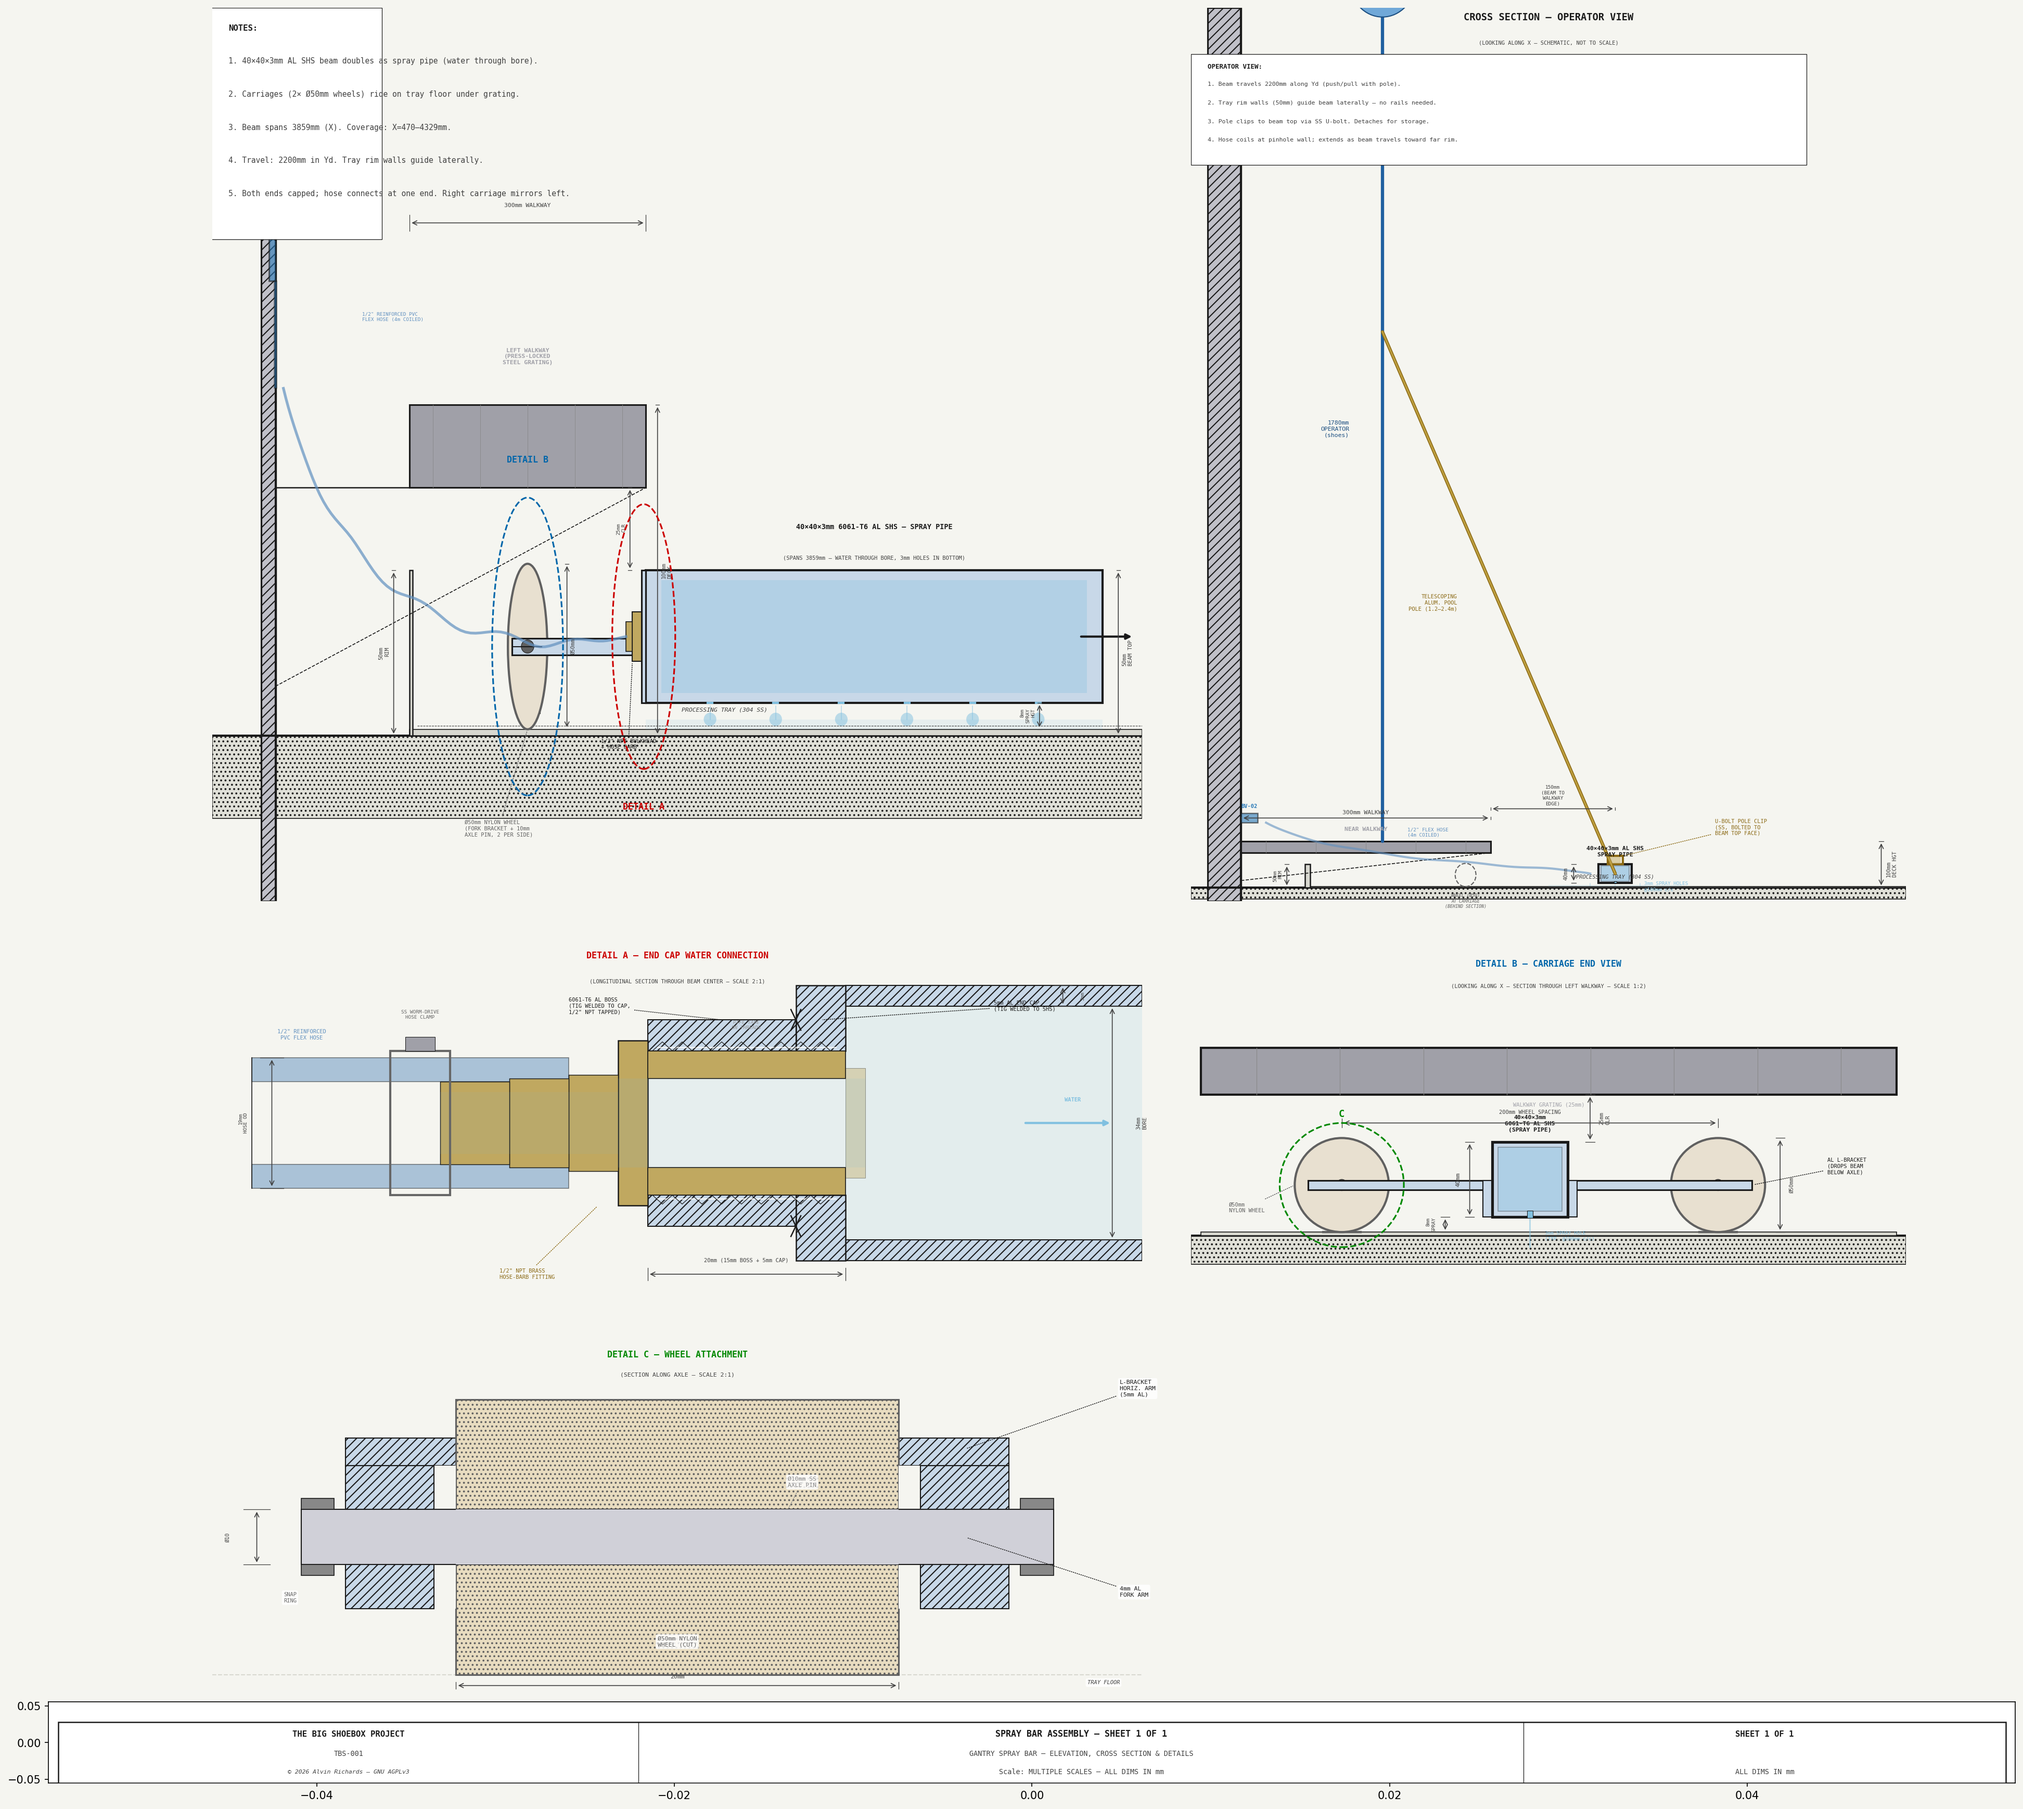
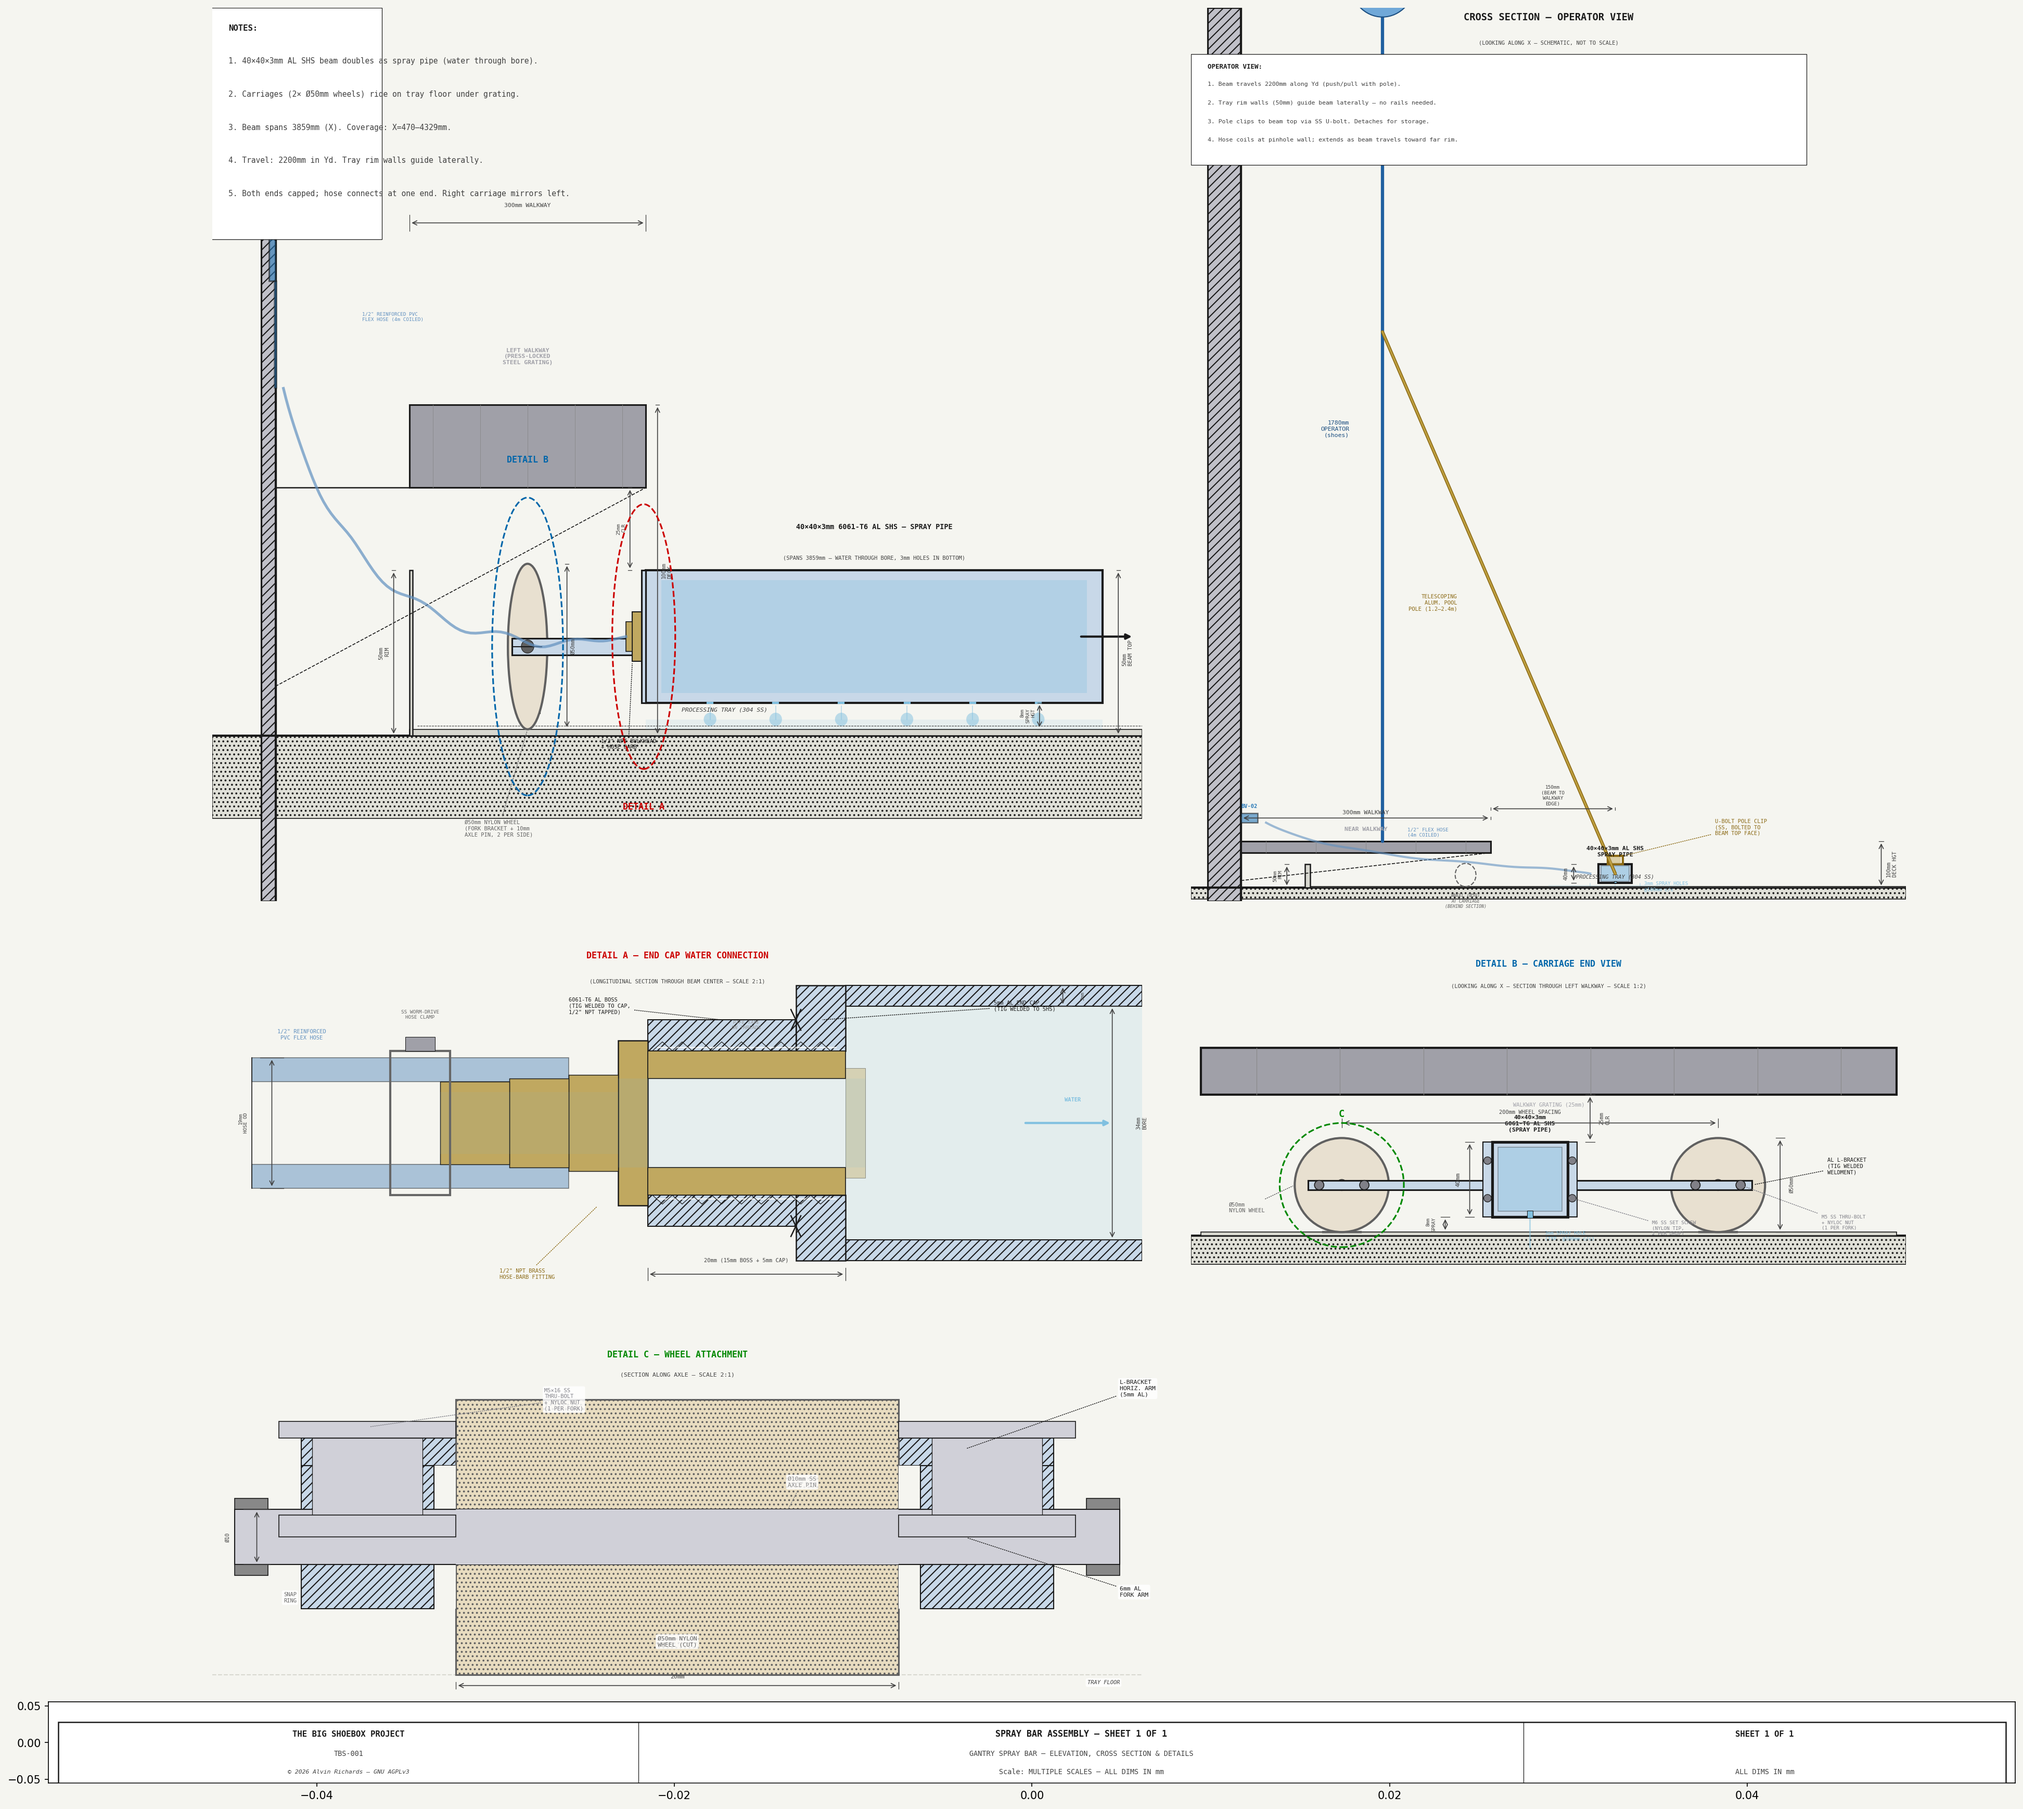
Show bolted carriage construction in Detail B and C
Design decision: L-bracket is a TIG welded weldment (arm + drop cheeks).
Fork brackets bolt to arm; beam is clamped by set screws in drops.

Detail B:
- Extend drop cheeks to full beam height (40mm vs 19.5mm)
- Add M5 bolt circles at fork-arm junctions
- Add M6 set screw circles on drop cheeks
- Label: TIG WELDED WELDMENT, bolt specs

Detail C:
- Widen forks from 4mm to 6mm (needed for M5 clearance holes)
- Extend arm, axle, reposition snap rings accordingly
- Add M5 through-bolt profile at both fork-arm junctions
  (head, shank, nyloc nut — matches Detail A hose fitting style)

Shopping list:
- Break out carriage fasteners: 8x M5x16 thru-bolts, 8x M6 set screws
- Update L-bracket description to specify TIG welded weldment
- Add axle pins and snap rings to misc hardware line

Changed region(s): [[0.0934, 0.7765, 0.2178, 0.9008], [0.4357, 0.7765, 0.5602, 0.9008]]

diff --git a/generate_spray_bar_diagram.py b/generate_spray_bar_diagram.py
@@ -212,9 +212,9 @@ brk_x_r = PROC_OPEN_X_L + 5
 ax.add_patch(Rectangle((sx(brk_x_l), sz(WHEEL_AXLE_Z - brk_t / 2)),
                          (brk_x_r - brk_x_l) / H_SC, brk_t / V_SC,
                          fc=C_ALUM_FILL, ec=C_FRAME, lw=1.5, zorder=7))
-# Vertical drop (at walkway inner edge)
+# Vertical drop (at walkway inner edge — full beam height)
 ax.add_patch(Rectangle((sx(brk_x_r - brk_t), sz(BEAM_Z_BOT)),
-                         brk_t / H_SC, (WHEEL_AXLE_Z - BEAM_Z_BOT + brk_t / 2) / V_SC,
+                         brk_t / H_SC, (BEAM_Z_TOP - BEAM_Z_BOT) / V_SC,
                          fc=C_ALUM_FILL, ec=C_FRAME, lw=1.5, zorder=7))
 
 leader(ax, sx(carriage_cx), sz(WHEEL_AXLE_Z - WHEEL_DIA / 2),
@@ -947,18 +947,47 @@ ax_c.add_patch(Rectangle((cy(plate_yd_l), cz(WHEEL_AXLE_Z - brk_t_c / 2)),
                            (plate_yd_r - plate_yd_l) / SC_C, brk_t_c / SC_C,
                            fc=C_ALUM_FILL, ec=C_FRAME, lw=1.5, zorder=7))
 
-# Vertical drops flanking beam
-for side_yd in [carriage_yd_center - BEAM_W / 2 - brk_t_c,
-                carriage_yd_center + BEAM_W / 2]:
+# Vertical drop cheeks flanking beam (full beam height)
+drop_yd_l = carriage_yd_center - BEAM_W / 2 - brk_t_c
+drop_yd_r = carriage_yd_center + BEAM_W / 2
+for side_yd in [drop_yd_l, drop_yd_r]:
     ax_c.add_patch(Rectangle((cy(side_yd), cz(BEAM_Z_BOT)),
                                brk_t_c / SC_C,
-                               (WHEEL_AXLE_Z - BEAM_Z_BOT + brk_t_c / 2) / SC_C,
+                               (BEAM_Z_TOP - BEAM_Z_BOT) / SC_C,
                                fc=C_ALUM_FILL, ec=C_FRAME, lw=1.0, zorder=7))
 
 leader(ax_c, cy(plate_yd_r), cz(WHEEL_AXLE_Z),
        cy(plate_yd_r + 40), cz(WHEEL_AXLE_Z + 10),
-       "AL L-BRACKET\n(DROPS BEAM\nBELOW AXLE)",
+       "AL L-BRACKET\n(TIG WELDED\nWELDMENT)",
        fs=5, color=C_FRAME, font=FONT, zorder=15)
+
+# ── Bolt indicators ─────────────────────────────────────────────────────
+C_BOLT = "#808088"
+bolt_r = 2.5 / SC_C
+
+# Fork-to-arm M5 through-bolts (1 per fork, visible as bolt-head circles)
+for w_yd in [wheel1_yd, wheel2_yd]:
+    for offset in [-WHEEL_WIDTH / 2 - 2, WHEEL_WIDTH / 2 + 2]:
+        fork_yd = w_yd + offset
+        ax_c.add_patch(Circle((cy(fork_yd), cz(WHEEL_AXLE_Z)),
+                                bolt_r, fc=C_BOLT, ec=C_FRAME, lw=0.8, zorder=11))
+
+# Beam-to-drop M6 set screws (2 per drop, visible as socket-head circles)
+for drp in [drop_yd_l + brk_t_c / 2, drop_yd_r + brk_t_c / 2]:
+    for ss_z in [BEAM_Z_BOT + 10, BEAM_Z_TOP - 10]:
+        ax_c.add_patch(Circle((cy(drp), cz(ss_z)),
+                                bolt_r * 0.8, fc=C_BOLT, ec=C_FRAME,
+                                lw=0.6, zorder=11))
+
+leader(ax_c, cy(wheel2_yd + WHEEL_WIDTH / 2 + 2), cz(WHEEL_AXLE_Z),
+       cy(wheel2_yd + 55), cz(WHEEL_AXLE_Z - 20),
+       "M5 SS THRU-BOLT\n+ NYLOC NUT\n(1 PER FORK)",
+       fs=4.5, color=C_BOLT, font=FONT, zorder=15)
+
+leader(ax_c, cy(drop_yd_r + brk_t_c / 2), cz(BEAM_Z_BOT + 10),
+       cy(carriage_yd_center + BEAM_W / 2 + 45), cz(BEAM_Z_BOT - 6),
+       "M6 SS SET SCREW\n(NYLON TIP,\n2 PER DROP)",
+       fs=4.5, color=C_BOLT, font=FONT, zorder=15)
 
 # ── Beam / spray pipe SHS cross-section ──────────────────────────────────
 c_beam_l = carriage_yd_center - BEAM_W / 2
@@ -1051,15 +1080,15 @@ ax_w.text(0, w_yt - 5,
 C_NYLON_FILL = "#E8DCC0"
 
 # ── L-bracket horizontal arm (cut — hatched) ─────────────────────────────
-ax_w.add_patch(Rectangle((-15, 13), 30, 5,
+ax_w.add_patch(Rectangle((-17, 13), 34, 5,
                fc=C_ALUM_FILL, ec=C_FRAME, lw=1.0, hatch="///", zorder=3))
 
-# ── Left fork arm (cut — hatched) ────────────────────────────────────────
-ax_w.add_patch(Rectangle((-15, -13), 4, 26,
+# ── Left fork arm (cut — hatched, 6mm thick for M5 bolts) ───────────────
+ax_w.add_patch(Rectangle((-17, -13), 6, 26,
                fc=C_ALUM_FILL, ec=C_FRAME, lw=1.0, hatch="///", zorder=4))
 
-# ── Right fork arm (cut — hatched) ───────────────────────────────────────
-ax_w.add_patch(Rectangle((11, -13), 4, 26,
+# ── Right fork arm (cut — hatched, 6mm thick) ───────────────────────────
+ax_w.add_patch(Rectangle((11, -13), 6, 26,
                fc=C_ALUM_FILL, ec=C_FRAME, lw=1.0, hatch="///", zorder=4))
 
 # ── Nylon wheel body (cut — dot hatch) ───────────────────────────────────
@@ -1072,7 +1101,7 @@ for gap_x in [-11, 10]:
                    fc=C_BG, ec="none", zorder=3.5))
 
 # ── Axle pin (not cut — solid fill, passes through) ─────────────────────
-ax_w.add_patch(Rectangle((-17, -5), 34, 10,
+ax_w.add_patch(Rectangle((-20, -5), 40, 10,
                fc="#D0D0D8", ec=C_FRAME, lw=1.0, zorder=5))
 
 # Clear bore through wheel (axle sits in this)
@@ -1080,11 +1109,24 @@ ax_w.add_patch(Rectangle((-10, -5), 20, 10,
                fc="#D0D0D8", ec="none", zorder=5))
 
 # ── Snap rings at axle ends (retain axle in fork) ────────────────────────
-for sr_x in [-17, 15.5]:
+for sr_x in [-20, 18.5]:
     ax_w.add_patch(Rectangle((sr_x, -7), 1.5, 2,
                    fc="#888888", ec=C_FRAME, lw=0.8, zorder=6))
     ax_w.add_patch(Rectangle((sr_x, 5), 1.5, 2,
                    fc="#888888", ec=C_FRAME, lw=0.8, zorder=6))
+
+# ── M5 through-bolts: fork-to-arm (profile view) ────────────────────────
+C_BOLT_FILL = "#D0D0D8"
+for bolt_cx in [-14, 14]:
+    # Bolt head (on top of arm)
+    ax_w.add_patch(Rectangle((bolt_cx - 4, 18), 8, 3,
+                   fc=C_BOLT_FILL, ec=C_FRAME, lw=0.8, zorder=7))
+    # Shank through arm and into fork
+    ax_w.add_patch(Rectangle((bolt_cx - 2.5, 4), 5, 14,
+                   fc=C_BOLT_FILL, ec=C_FRAME, lw=0.6, zorder=7))
+    # Nyloc nut below fork
+    ax_w.add_patch(Rectangle((bolt_cx - 4, 0), 8, 4,
+                   fc=C_BOLT_FILL, ec=C_FRAME, lw=0.8, zorder=7))
 
 _bbox_w = dict(boxstyle="round,pad=0.3", fc="white", ec="none", alpha=0.85)
 
@@ -1102,7 +1144,7 @@ leader(ax_w, 13, 16, w_xr - 1, w_yt - 8,
        fs=5.5, color=C_FRAME, font=FONT, zorder=20, bbox=_bbox_w)
 
 leader(ax_w, 13, 0, w_xr - 1, -10,
-       "4mm AL\nFORK ARM",
+       "6mm AL\nFORK ARM",
        fs=5.5, color=C_FRAME, font=FONT, zorder=20, bbox=_bbox_w)
 
 ax_w.text(0, -18, "Ø50mm NYLON\nWHEEL (CUT)",
@@ -1116,6 +1158,10 @@ leader(ax_w, 5, 5, 5, 10,
 ax_w.text(-17.5, -10, "SNAP\nRING",
           ha="center", va="top", fontsize=5, color="#666666",
           bbox=_bbox_w, **FONT, zorder=20)
+
+leader(ax_w, -14, 20, -6, w_yt - 10,
+       "M5×16 SS\nTHRU-BOLT\n+ NYLOC NUT\n(1 PER FORK)",
+       fs=5, color="#808088", font=FONT, zorder=20, bbox=_bbox_w)
 
 # ── Dimensions ────────────────────────────────────────────────────────────
 draw_dim_h(ax_w, -10, 10, w_yb + 3,

diff --git a/master-shopping-list.md b/master-shopping-list.md
@@ -240,12 +240,14 @@ Items are grouped by build area. Source documents are cross-referenced in each s
 | Item | Spec | Qty | Supplier | Est. cost |
 |------|------|-----|----------|-----------|
 | [6061-T6 aluminum SHS 1½"×1½"×⅛"](https://www.onlinemetals.com/en/buy/aluminum/6061-t6-aluminum-square-tube) | 40×40×3mm beam/spray pipe, 8 ft lengths (2 joined with sleeve for 3,859mm) | 2 | Online Metals | $36–$56 |
-| [6061-T6 aluminum plate 3/16" (5mm)](https://www.onlinemetals.com/en/buy/aluminum/6061-t6-aluminum-sheet-plate) | L-brackets + end caps — ~300×600mm sheet, cut and bend | 1 | Online Metals | $15–$25 |
+| [6061-T6 aluminum plate 3/16" (5mm)](https://www.onlinemetals.com/en/buy/aluminum/6061-t6-aluminum-sheet-plate) | L-bracket weldments (TIG welded: 5mm arm + drop cheeks) + end caps — ~300×600mm sheet, cut/bend/weld | 1 | Online Metals | $15–$25 |
 | [30×30mm aluminum solid bar](https://www.onlinemetals.com/en/buy/aluminum/6061-t6-aluminum-square-bar) | Internal splice sleeve, 150mm long | 1 | Online Metals | $8–$12 |
 | [Nylon fixed wheel, 50mm×20mm, 10mm bore](https://www.amazon.com/s?k=50mm+nylon+wheel+10mm+bore+fixed) | Carriage wheels, flat tread, ≥25 kg rated | 4 | Amazon / McMaster | $12–$20 |
 | [Telescoping aluminum pool pole](https://www.amazon.com/s?k=telescoping+aluminum+pool+pole+8+ft) | 4–8 ft push handle | 1 | Amazon / Home Depot | $15 |
 | [½" reinforced braided PVC hose, 15 ft](https://www.amazon.com/s?k=1%2F2+inch+reinforced+braided+PVC+hose+15+ft) | Flexible connection BV-02 to beam feed end | 1 | Amazon | $15 |
-| Fittings + hardware | ½" NPT bulkhead, barb adapter, clevis pins, M6 bolts, pole clip | misc | Amazon / McMaster | $33 |
+| [M5×16 SS hex bolt + nyloc nut + washers](https://www.mcmaster.com/91292A126) | Fork-to-arm through-bolts (1 per fork, 4 forks per carriage) | 8 sets | McMaster-Carr | $8 |
+| [M6×12 SS nylon-tip set screw](https://www.mcmaster.com/91313A134) | Beam clamping in L-bracket drop cheeks (2 per drop, 4 drops total) | 8 | McMaster-Carr | $6 |
+| Fittings + misc hardware | ½" NPT bulkhead, barb adapter, pole clip, Ø10mm axle pins, snap rings | misc | Amazon / McMaster | $19 |
 
 **Spray bar subtotal: ~$134–$176**
 
